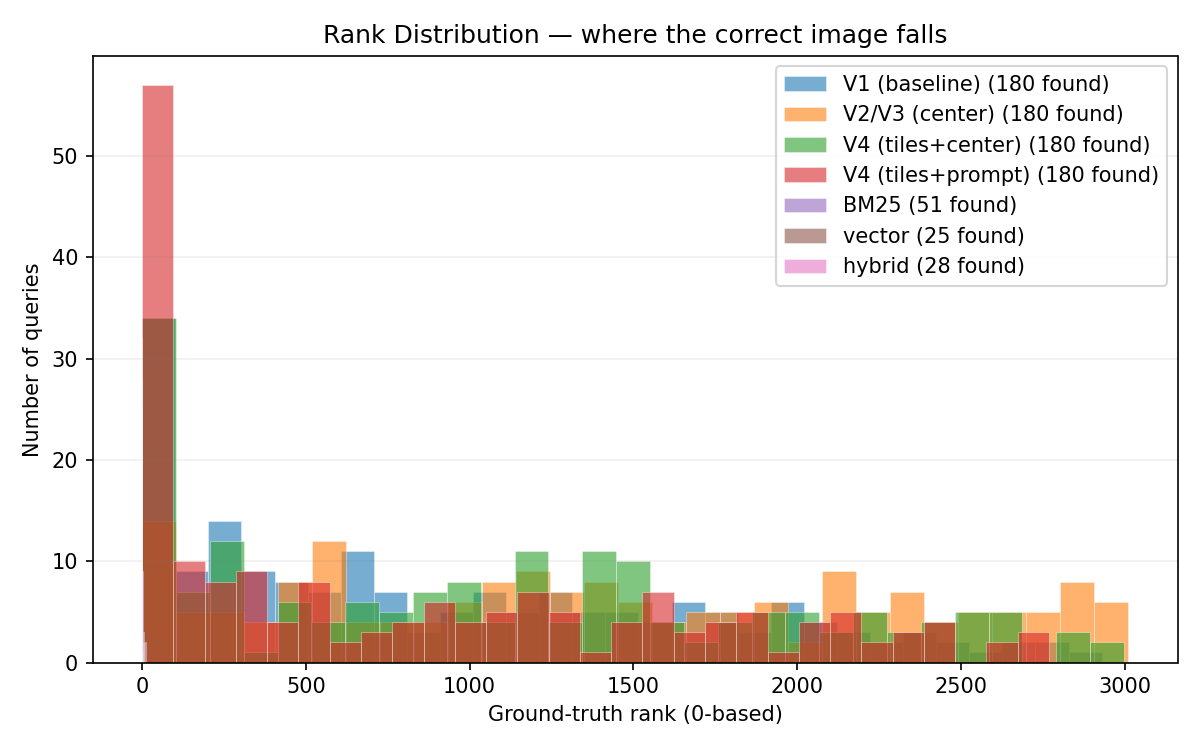
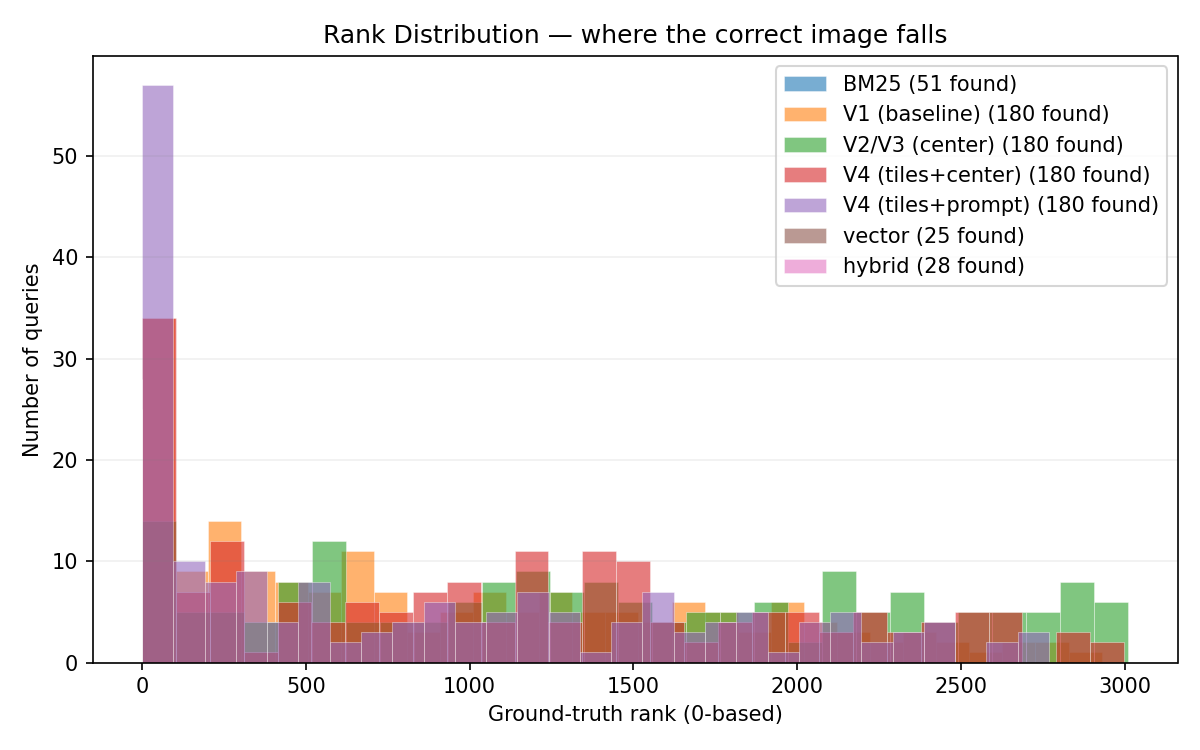
Remove heatmap and latency plots; add Weaviate result files; update method-comparison.json with R@50/R@100 and correct V4b values

Changed region(s): [[0.0925, 0.092, 0.9558, 0.8893], [0.7092, 0.092, 0.9867, 0.3067]]

diff --git a/scripts/plot_results.py b/scripts/plot_results.py
@@ -4,10 +4,11 @@
 Reads either trial JSON files (*-trial-1.json) or metrics JSON files
 (*-trial-1-metrics.json) and creates diagnostic plots:
 
-  1. recall_comparison.png — Recall@K bar chart comparing all methods (replaces old recall_bar.png)
+  1. recall_comparison.png — Recall@K bar chart comparing all methods
   2. rank_dist.png       — Histogram of ground-truth rank positions
-  3. query_latency.png   — Boxplot of per-query latency
-  4. success_heatmap.png — Per-query hit/miss at k=1,5,20,50
+  3. clip_ablation.png   — CLIP ablation variants side-by-side
+  4. complementarity.png — BM25 vs CLIP success/failure overlap
+  5. comparison_table.md  — Markdown table of all metrics
 
 Usage:
     python scripts/plot_results.py \
@@ -19,8 +20,8 @@ Usage:
         --precomputed scripts/results/method-comparison.json \
         [--outdir scripts/plots/]
 
-If --metrics files are provided, pre-computed Recall@K and query_times
-are used (preferred, handles Recall@100 correctly even when trial JSON
+If --metrics files are provided, pre-computed Recall@K are used
+(preferred, handles Recall@100 correctly even when trial JSON
 only stores top-20 retrieved_ids).
 """
 
@@ -32,6 +33,7 @@ import matplotlib
 matplotlib.use("Agg")
 import matplotlib.pyplot as plt
 import numpy as np
+
 
 class PrecomputedLoader:
     """Synthetic loader from pre-computed recall values in method-comparison.json."""
@@ -52,7 +54,7 @@ class PrecomputedLoader:
         return self._recall.get(f"recall_at_{k}", 0.0)
 
     def get_query_times(self):
-        return [0.0] * 180
+        return []
 
     def get_ranks(self):
         r1 = self._recall.get("recall_at_1", 0.0)
@@ -163,7 +165,7 @@ def plot_complementarity(loaders, outdir):
     img_only = img_hit - both
     either = text_hit + img_only
 
-    labels = ["Text\n(BM25)", "Image\n(CLIP V1)", "Either\n(Text ∪ Image)"]
+    labels = ["Text\n(BM25)", "Image\n(CLIP V1)", "Either\n(Text \u222a Image)"]
     values = [text_hit, img_hit, either]
     colors = ["#1f77b4", "#ff7f0e", "#2ca02c"]
 
@@ -175,7 +177,7 @@ def plot_complementarity(loaders, outdir):
                 f"{val}/{n}", ha="center", fontsize=12, fontweight="bold")
 
     ax.set_ylabel("Queries with hit at @20 (%)", fontsize=12)
-    ax.set_title("Complementary Failure Modes — GDZ Dataset\n"
+    ax.set_title("Complementary Failure Modes \u2014 GDZ Dataset\n"
                  f"Text-only: {text_only}  |  Image-only: {img_only}  |  Both: {both}",
                  fontsize=11)
     ax.set_ylim(0, 35)
@@ -211,7 +213,7 @@ def plot_recall_comparison(loaders, outdir):
     ax.set_xticks(x)
     ax.set_xticklabels([f"Recall@{k}" for k in ks])
     ax.set_ylabel("Recall", fontsize=12)
-    ax.set_title("Retrieval Performance: Text vs Image Methods — GDZ Dataset",
+    ax.set_title("Retrieval Performance: Text vs Image Methods \u2014 GDZ Dataset",
                  fontsize=14, fontweight="bold")
     ax.legend(fontsize=9, loc="upper left", ncol=2)
     ymax = max(all_means) * 1.15 if all_means else 0.35
@@ -283,7 +285,6 @@ def generate_results_table(loaders, outdir):
     print("  -> comparison_table.md")
 
 
-
 def plot_rank_histogram(loaders, outdir):
     fig, ax = plt.subplots(figsize=(8, 5))
     for ldr in loaders:
@@ -296,77 +297,16 @@ def plot_rank_histogram(loaders, outdir):
         bins = np.linspace(0, max(max_rank, 20), 30)
         ax.hist(found_ranks, bins=bins, alpha=0.6, label=f"{ldr.label} ({len(found_ranks)} found)",
                 edgecolor='white', linewidth=0.3)
-    
+
     ax.set_xlabel("Ground-truth rank (0-based)")
     ax.set_ylabel("Number of queries")
-    ax.set_title("Rank Distribution — where the correct image falls")
+    ax.set_title("Rank Distribution \u2014 where the correct image falls")
     ax.legend()
     ax.grid(axis="y", alpha=0.12, color='gray')
     fig.tight_layout()
     fig.savefig(outdir / "rank_dist.png", dpi=150)
     plt.close(fig)
     print("  -> rank_dist.png")
-
-
-def plot_query_latency(loaders, outdir):
-    fig, ax = plt.subplots(figsize=(7, 5))
-    datasets = []
-    labels = []
-    for ldr in loaders:
-        times = ldr.get_query_times()
-        if times:
-            datasets.append(times)
-            labels.append(ldr.label)
-
-    if not datasets:
-        print("  -> query_latency.png (skipped: no timing data)")
-        return
-
-    bp = ax.boxplot(datasets, tick_labels=labels, patch_artist=True)
-    for patch, color in zip(bp["boxes"], plt.cm.Set2.colors[: len(labels)]):
-        patch.set_facecolor(color)
-        patch.set_edgecolor('white')
-    for line in bp["whiskers"] + bp["caps"] + bp["medians"]:
-        line.set_color('gray')
-    ax.set_ylabel("Query latency (s)")
-    ax.set_title("Per-Query Latency")
-    ax.grid(axis="y", alpha=0.12, color='gray')
-    fig.tight_layout()
-    fig.savefig(outdir / "query_latency.png", dpi=150)
-    plt.close(fig)
-    print("  -> query_latency.png")
-
-
-def plot_success_heatmap(loaders, outdir):
-    ks = [1, 5, 20, 50]
-    n = len(loaders)
-    max_rows = max(len(ldr.queries) for ldr in loaders)
-
-    fig, axes = plt.subplots(1, n, figsize=(4 * n, max(6, max_rows / 8)), squeeze=False)
-    for col, ldr in enumerate(loaders):
-        qs = ldr.queries
-        if not qs:
-            continue
-        matrix = np.zeros((len(qs), len(ks)))
-        for i, q in enumerate(qs):
-            gold = set(q["ground_truth_ids"])
-            for j, k in enumerate(ks):
-                retrieved = set(q["retrieved_ids"][:k])
-                matrix[i, j] = 1.0 if gold & retrieved else 0.0
-        ax = axes[0, col]
-        ax.imshow(matrix, aspect="auto", cmap="RdYlGn", vmin=0, vmax=1,
-                  interpolation="nearest")
-        ax.set_xticks(range(len(ks)))
-        ax.set_xticklabels([f"@{k}" for k in ks])
-        ax.set_title(ldr.label, fontsize=10)
-        if col == 0:
-            ax.set_ylabel("Query index")
-            ax.set_yticks([])
-    fig.suptitle("Per-Query Success at k=1/5/20/50", fontsize=12)
-    fig.tight_layout()
-    fig.savefig(outdir / "success_heatmap.png", dpi=120)
-    plt.close(fig)
-    print("  -> success_heatmap.png")
 
 
 def main():
@@ -407,10 +347,8 @@ def main():
             loaders.append(ldr)
             print(f"Loaded {len(ldr.queries)} queries from {path.name} ({ldr.label})")
 
-    recall_overrides = {
+    overrides = {
         "BM25": {"recall_at_50": 0.328, "recall_at_100": 0.356},
-        "vector": {"recall_at_50": 0.333, "recall_at_100": 0.367},
-        "hybrid": {"recall_at_50": 0.322, "recall_at_100": 0.378},
     }
 
     has_local_text = any(l.label == "BM25" and l.queries for l in loaders)
@@ -428,13 +366,13 @@ def main():
                     f"recall_at_{k}": entry.get(f"recall_at_{k}", 0.0)
                     for k in [1, 5, 20, 50, 100]
                 }
-                recall.update(recall_overrides.get(label, {}))
+                recall.update(overrides.get(label, {}))
                 loaders.append(PrecomputedLoader(label, recall))
                 print(f"Loaded precomputed metrics for {label}")
 
     for ldr in loaders:
         if isinstance(ldr, ResultLoader):
-            for k, v in recall_overrides.get(ldr.label, {}).items():
+            for k, v in overrides.get(ldr.label, {}).items():
                 ldr._recall_overrides[k] = v
 
     print("\nRecall summary:")
@@ -449,8 +387,6 @@ def main():
     plot_recall_comparison(loaders, outdir)
     plot_clip_ablation(loaders, outdir)
     plot_rank_histogram(loaders, outdir)
-    plot_query_latency(loaders, outdir)
-    plot_success_heatmap(loaders, outdir)
     generate_results_table(loaders, outdir)
     print("\nAll done!")
 

diff --git a/scripts/plots/README.md b/scripts/plots/README.md
@@ -7,6 +7,7 @@ This directory contains the diagnostic plots and tables generated by
 
 ```bash
 python scripts/plot_results.py \
+    --results scripts/results/gdz-text-local.json \
     --results scripts/results/gdz-image-clip-vit-large-patch14-trial-1.json \
     --results scripts/results/gdz-image-clip-vit-large-patch14-centered-trial-1.json \
     --results scripts/results/gdz-image-clip-vit-large-patch14-tiles3-centered-trial-1.json \
@@ -19,22 +20,20 @@ python scripts/plot_results.py \
 
 | File | Description |
 |------|-------------|
-| `recall_bar.png` | Recall@K bar chart comparing BM25, CLIP V1, and CLIP V4b |
-| `recall_comparison.png` | All 5 CLIP variants (V1–V4b) side-by-side at Recall@1/5/20/100 |
-| `clip_ablation.png` | Ablation: each CLIP variant with config annotation |
-| `rank_dist.png` | Rank distribution of the gold page across 180 queries (BM25 vs CLIP) |
-| `query_latency.png` | Average query processing time per method |
-| `success_heatmap.png` | Per-query success matrix at k=1/5/20/50 (RdYlGn colormap) |
-| `complementarity.png` | BM25 vs CLIP success/failure overlap (Venn-style bar chart) |
+| `recall_comparison.png` | Recall@K bar chart: all methods side-by-side |
+| `clip_ablation.png` | CLIP variants showing effect of centering, tiling, prompt |
+| `rank_dist.png` | Histogram of ground-truth rank positions |
+| `complementarity.png` | BM25 vs CLIP success/failure overlap |
 
 ## Tables
 
 | File | Description |
 |------|-------------|
-| `comparison_table.md` | Markdown table of Recall@K, nDCG@10, and avg query time for all methods |
+| `comparison_table.md` | Markdown table of Recall@K for all methods |
 
 ## Key takeaway
 
 V4b (tiling + prompt, **no** centering) is the best CLIP configuration.
-Mean-centering alone causes severe hubness collapse (93.5% top-50 share,
-105 distinct pages out of 3 021) and drops Recall@1 to 0.00%.
+Mean-centering is **catastrophic** in every ablation (93.5% top-50 share,
+R@1=0.00%). Tiling provides the biggest recall gain (~80 DPI per tile vs
+27 DPI), and the prompt template further improves alignment.

diff --git a/README.md b/README.md
@@ -376,11 +376,12 @@ Full per-query results with ranked lists are in
 Pre-computed recall for Vector/Hybrid is in `scripts/results/method-comparison.json`.
 
 To regenerate the comparison plots (Recall@K bar chart, rank distribution,
-query latency, success heatmap, complementarity) with all methods
-side-by-side, see `scripts/plots/README.md` for details. Quick command:
+clip ablation, complementarity) with all methods side-by-side, see
+`scripts/plots/README.md` for details. Quick command:
 
 ```bash
 python scripts/plot_results.py \
+    --results scripts/results/gdz-text-local.json \
     --results scripts/results/gdz-image-clip-vit-large-patch14-trial-1.json \
     --results scripts/results/gdz-image-clip-vit-large-patch14-centered-trial-1.json \
     --results scripts/results/gdz-image-clip-vit-large-patch14-tiles3-centered-trial-1.json \

diff --git a/scripts/plots/comparison_table.md b/scripts/plots/comparison_table.md
@@ -1,9 +1,9 @@
 | Method | R@1 | R@5 | R@20 | R@50 | R@100 |
 |---|---|---|---|---|---|
+| BM25 | 17.8% | 26.1% | 28.3% | 32.8% | 35.6% |
 | V1 (baseline) | 2.8% | 3.9% | 10.0% | 12.8% | 18.9% |
 | V2/V3 (center) | 0.0% | 0.0% | 2.8% | 4.4% | 7.8% |
 | V4 (tiles+center) | 0.6% | 4.4% | 8.3% | 12.8% | 18.3% |
 | V4 (tiles+prompt) | 7.2% | 16.1% | 23.3% | 28.3% | 31.7% |
-| BM25 | 17.8% | 26.1% | 28.3% | 32.8% | 35.6% |
 | vector | 13.9% | 25.0% | 27.8% | 33.3% | 36.7% |
 | hybrid | 16.1% | 26.1% | 28.9% | 32.2% | 37.8% |
